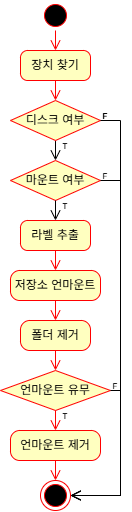
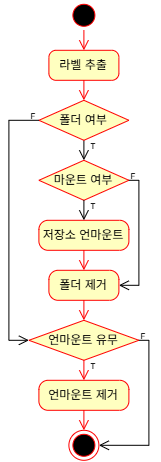
저장소 제거 스크립트 추가

diff --git a/design/requirement.md b/design/requirement.md
@@ -5,12 +5,12 @@
 - [x] USB 장치가 디스크이고 마운트 상태가 아니라면 드라이브 폴더에 새 USB 장치의 저장소를 만든다.
 - [x] 새 USB 장치의 저장소 폴더 이름은 장치의 고유 번호로 정한다.
 - [x] 새 USB 장치를 저장소 폴더에 마운트한다.
-- [x] 드라이브 폴더에 저장소 폴더에 대응하는 [언마운트 파일](#저장소-삭제)을 만든다.
+- [x] 드라이브 폴더에 저장소 폴더에 대응하는 [언마운트 파일](#저장소-제거)을 만든다.
 
-### 저장소 삭제
-- [ ] 언마운트 파일을 실행하면 본 기능을 수행한다.
-- [ ] 저장소 폴더가 마운트 상태라면 USB 장치의 마운트를 해제한다.
-- [ ] 저장소 폴더가 마운트 상태가 아니면 저장소 폴더, 대응하는 언마운트 파일을 삭제한다.
+### 저장소 제거
+- [x] 언마운트 파일을 실행하면 본 기능을 수행한다.
+- [x] 고유 번호에 대응하는 저장소 폴더, 언마운트 파일을 제거한다.
+- [x] 고유 번호에 대응하는 저장소 폴더가 마운트 상태라면 마운트를 해제한다.
 
 # 비기능 요구사항
 
